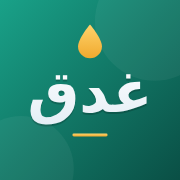
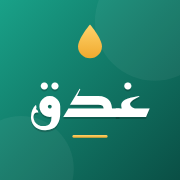
الشعاران بالخط الكوفي
Claude-Session: https://claude.ai/code/session_017z6bQJQzR3ddprLFgzisze

Changed region(s): [[0.1667, 0.3889, 0.8333, 0.7222], [0.3889, 0.7222, 0.6111, 0.7778]]

diff --git a/index.html b/index.html
@@ -8,8 +8,8 @@
 <meta name="mobile-web-app-capable" content="yes">
 <meta name="apple-mobile-web-app-title" content="مكتبة الصفاء">
 <meta name="theme-color" content="#1F4E79">
-<link rel="apple-touch-icon" href="icon-180.png?v=3">
-<link rel="icon" href="icon-192.png?v=3">
+<link rel="apple-touch-icon" href="icon-180.png?v=4">
+<link rel="icon" href="icon-192.png?v=4">
 <link rel="manifest" href="manifest.json">
 <style>
 body{margin:0;min-height:100vh;display:flex;align-items:center;justify-content:center;background:linear-gradient(160deg,#1F4E79,#2E6DA4);font-family:system-ui,-apple-system,"Segoe UI",Tahoma,sans-serif;color:#fff;text-align:center}
@@ -20,14 +20,14 @@ button{font:inherit;padding:10px 22px;border:0;border-radius:10px;background:#ff
 <script>
 window.APP = {
   id: 'safa', mode: 'safa', short: 'مكتبة الصفاء', color: '#1F4E79',
-  icon: 'icon-180.png?v=3', manifest: 'manifest.json',
+  icon: 'icon-180.png?v=4', manifest: 'manifest.json',
   exec: 'https://script.google.com/macros/s/AKfycbw-CmHVeyifOKvcB8GABaK8BfZ4eogN_IW3uJvzNEfhREqqa231a6JDncaAA7Ii7wbTCg/exec'
 };
 </script>
 <script src="core.js"></script>
 </head>
 <body>
-<div><img src="icon-192.png?v=3" alt=""><h1>مكتبة الصفاء</h1><div id="st">جارٍ الفتح…</div></div>
+<div><img src="icon-192.png?v=4" alt=""><h1>مكتبة الصفاء</h1><div id="st">جارٍ الفتح…</div></div>
 <script src="loader.js"></script>
 </body>
 </html>

diff --git a/ghadaq/index.html b/ghadaq/index.html
@@ -8,8 +8,8 @@
 <meta name="mobile-web-app-capable" content="yes">
 <meta name="apple-mobile-web-app-title" content="يومية غدق">
 <meta name="theme-color" content="#0E6B5E">
-<link rel="apple-touch-icon" href="icon-180.png?v=3">
-<link rel="icon" href="icon-192.png?v=3">
+<link rel="apple-touch-icon" href="icon-180.png?v=4">
+<link rel="icon" href="icon-192.png?v=4">
 <link rel="manifest" href="manifest.json">
 <style>
 body{margin:0;min-height:100vh;display:flex;align-items:center;justify-content:center;background:linear-gradient(160deg,#0E6B5E,#13907F);font-family:system-ui,-apple-system,"Segoe UI",Tahoma,sans-serif;color:#fff;text-align:center}
@@ -20,14 +20,14 @@ button{font:inherit;padding:10px 22px;border:0;border-radius:10px;background:#ff
 <script>
 window.APP = {
   id: 'ghadaq', mode: 'ghadaq', root: '../', short: 'يومية غدق', color: '#0E6B5E',
-  icon: 'icon-180.png?v=3', manifest: 'manifest.json',
+  icon: 'icon-180.png?v=4', manifest: 'manifest.json',
   exec: 'https://script.google.com/macros/s/AKfycbwMsSXYzVTvArFgfCZDcsQjiVQBWIeCD21rIu2pozaf8n3_Q8Tahl5hCuI8DD6goGvwRQ/exec'
 };
 </script>
 <script src="../core.js"></script>
 </head>
 <body>
-<div><img src="icon-192.png?v=3" alt=""><h1>يومية غدق</h1><div id="st">جارٍ الفتح…</div></div>
+<div><img src="icon-192.png?v=4" alt=""><h1>يومية غدق</h1><div id="st">جارٍ الفتح…</div></div>
 <script src="../loader.js"></script>
 </body>
 </html>

diff --git a/sw.js b/sw.js
@@ -1,5 +1,5 @@
 /* يحفظ ملفات التطبيق في الجهاز ليفتح دون اتصال */
-var V = 'safa-v32';
+var V = 'safa-v33';
 var FILES = ['./', './index.html', './core.js', './loader.js', './ui.js', './ui2.js', './ui3.js', './icon-180.png', './icon-192.png', './icon-512.png', './manifest.json',
   './ghadaq/', './ghadaq/index.html', './ghadaq/manifest.json', './ghadaq/icon-180.png', './ghadaq/icon-192.png', './ghadaq/icon-512.png'];
 self.addEventListener('install', function (e) {
